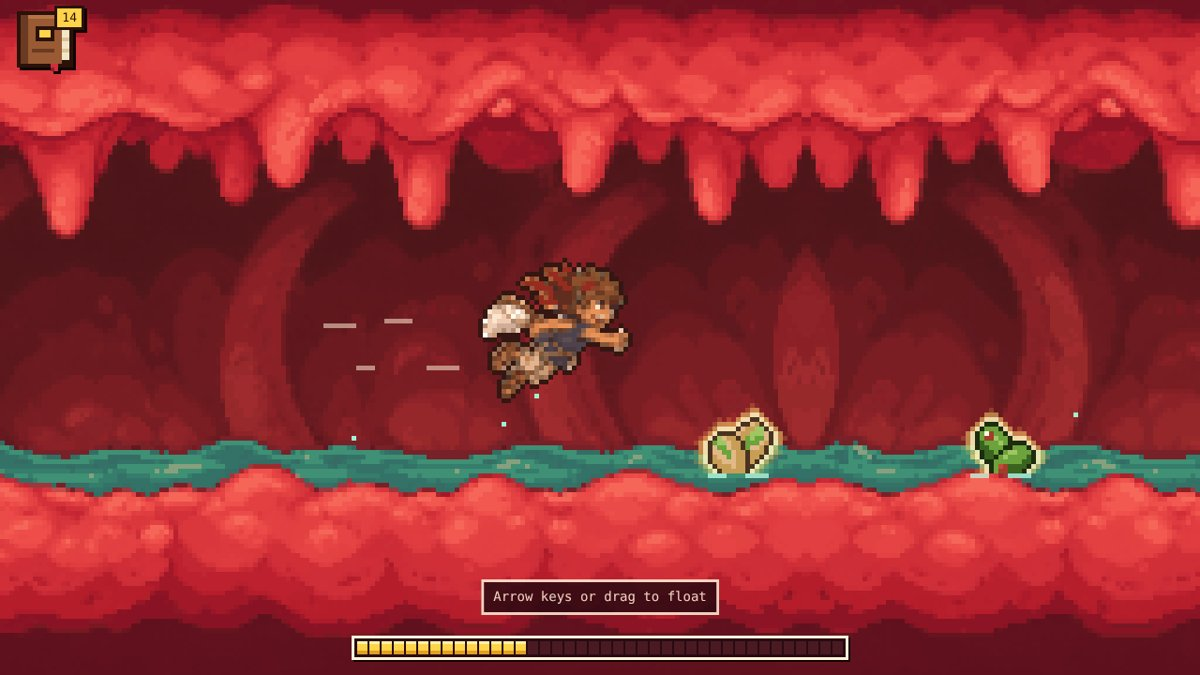
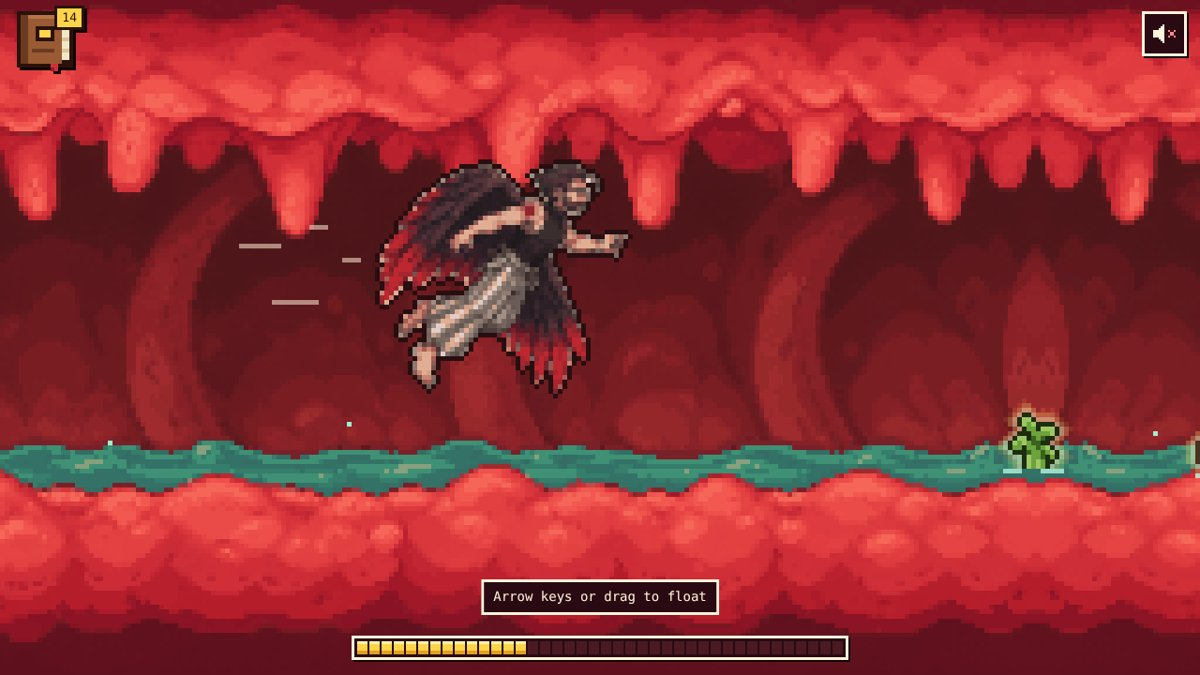
New winged hero based on Jawad's drawing: glides, flaps, drifts, rolls, faces his direction
Claude-Session: https://claude.ai/code/session_01TT9nh2LHULSaAs9YgLgihV

diff --git a/index.html b/index.html
@@ -81,14 +81,14 @@ canvas{touch-action:none;cursor:grab}
 <div class="help" id="help">Arrow keys or drag to float</div>
 <button type="button" class="sound" id="soundBtn" aria-pressed="false" aria-label="Sound"><svg viewBox="0 0 16 16" width="32" height="32" shape-rendering="crispEdges" aria-hidden="true"><rect x="2" y="6" width="3" height="4" fill="#fff3dc"/><rect x="5" y="5" width="1" height="6" fill="#fff3dc"/><rect x="6" y="4" width="1" height="8" fill="#fff3dc"/><rect x="7" y="3" width="1" height="10" fill="#fff3dc"/><g class="w" fill="#8ff0c8"><rect x="10" y="6" width="1" height="4"/><rect x="12" y="4" width="1" height="8"/><rect x="11" y="5" width="1" height="1"/><rect x="11" y="10" width="1" height="1"/></g><g class="x" fill="#ff8a8a"><rect x="10" y="6" width="1" height="1"/><rect x="11" y="7" width="1" height="1"/><rect x="12" y="8" width="1" height="1"/><rect x="13" y="9" width="1" height="1"/><rect x="13" y="6" width="1" height="1"/><rect x="12" y="7" width="1" height="1"/><rect x="11" y="8" width="1" height="1"/><rect x="10" y="9" width="1" height="1"/></g></svg></button>
 <div class="tag" id="tag"></div>
-<canvas id="c" role="img" aria-label="A boy with a net floats through a tunnel inside the gut while his safe foods drift by on the stream, glowing gold. Use the arrow keys or drag to float him around."></canvas>
+<canvas id="c" role="img" aria-label="A winged man floats through a tunnel inside the gut while his safe foods drift by on the stream, glowing gold. Use the arrow keys or drag to float him around."></canvas>
 <script>
 {
 const cv = document.getElementById('c'), g = cv.getContext('2d');
 const still = matchMedia('(prefers-reduced-motion: reduce)').matches;
-const BG_H = 145, TILE_W = 514, FRAME_W = 48, FRAME_H = 49, ANCHOR_X = 18, ANCHOR_Y = 29;
+const BG_H = 145, TILE_W = 514, FRAME_W = 65, FRAME_H = 70, ANCHOR_X = 32, ANCHOR_Y = 27;
 const bg = new Image(), kid = new Image();
-bg.src = 'assets/px-bg.png'; kid.src = 'assets/px-kid.png';
+bg.src = 'assets/px-bg.png'; kid.src = 'assets/px-hero.png';
 
 /* foods logged in successfully */
 const FOODS = [
@@ -162,7 +162,7 @@ document.getElementById('closeBook').addEventListener('click', () => toggle(fals
 wrap.addEventListener('click', e => { if (e.target === wrap) toggle(false); });
 addEventListener('keydown', e => { if (e.key === 'Escape') toggle(false); });
 /* floating him yourself: keys or drag; he drifts on his own when left alone */
-let px = null, py = null, goal = null, lastInput = -99;
+let px = null, py = null, goal = null, lastInput = -99, face = 1, pose = 0, poseUntil = 0, nextPoseAt = 8;
 const keys = new Set();
 const toNative = e => { const r = cv.getBoundingClientRect(); return {x: (e.clientX - r.left) / k, y: (e.clientY - r.top) / k}; };
 cv.addEventListener('pointerdown', e => { toggle(false); cv.setPointerCapture(e.pointerId); goal = toNative(e); });
@@ -338,7 +338,7 @@ function draw(now) {
   }
 
   /* the boy drifts on his own */
-  const ax = W * .4 + (still ? 0 : Math.sin(t * .23) * W * .08), ay = top + 66 + (still ? 0 : Math.sin(t * .41) * 7);
+  const ax = W * .4 + (still ? 0 : Math.sin(t * .23) * W * .08), ay = top + 50 + (still ? 0 : Math.sin(t * .41) * 6);
   if (px === null) { px = ax; py = ay; }
   let vx = 0, vy = 0;
   if (keys.has('arrowleft') || keys.has('a')) vx -= 1;
@@ -348,18 +348,33 @@ function draw(now) {
   if (vx || vy) { const m = Math.hypot(vx, vy); px += vx / m * 60 * dt; py += vy / m * 60 * dt; lastInput = t; }
   else if (goal) { const gx = goal.x - 6, gy = goal.y, d = Math.hypot(gx - px, gy - py); if (d > 1) { const st = Math.min(d, 70 * dt); px += (gx - px) / d * st; py += (gy - py) / d * st; } lastInput = t; }
   else if (t - lastInput > 3) { const e = Math.min(1, dt * .8); px += (ax - px) * e; py += (ay - py) * e; }
-  px = Math.max(20, Math.min(W - 32, px)); py = Math.max(top + 34, Math.min(top + 86, py));
+  px = Math.max(26, Math.min(W - 34, px)); py = Math.max(top + 28, Math.min(top + 62, py));
+  const moving = !!(vx || vy || (goal && Math.hypot(goal.x - 6 - px, goal.y - py) > 2));
+  if (vx) face = vx > 0 ? 1 : -1;
+  else if (goal && Math.abs(goal.x - 6 - px) > 3) face = goal.x - 6 > px ? 1 : -1;
+  else if (!moving && t - lastInput > 3) { const dx = ax - px; if (Math.abs(dx) > 2) face = dx > 0 ? 1 : -1; else face = 1; }
   const kx = Math.round(px), ky = Math.round(py) + (still ? 0 : Math.round(Math.sin(t * 2.2) * 1.5));
   if (!still) {
     g.fillStyle = 'rgba(255,235,210,.55)';
     for (const l of lines) {
       l.t += dt * 1.2;
-      if (l.t > 1) { l.t = 0; l.y = ky - 10 + Math.floor(Math.random() * 20); l.len = 4 + Math.floor(Math.random() * 7); }
-      if (l.len) g.fillRect(kx - 22 - Math.floor(l.t * 30), l.y, l.len, 1);
+      if (l.t > 1) { l.t = 0; l.y = ky - 6 + Math.floor(Math.random() * 26); l.len = 4 + Math.floor(Math.random() * 7); }
+      if (l.len && face > 0) g.fillRect(kx - 34 - Math.floor(l.t * 30), l.y, l.len, 1);
+      if (l.len && face < 0) g.fillRect(kx + 30 + Math.floor(l.t * 30), l.y, l.len, 1);
     }
   }
-  const frame = still ? 0 : Math.floor(t * 4.5) % 2;
-  if (kid.naturalWidth) g.drawImage(kid, frame * FRAME_W, 0, FRAME_W, FRAME_H, kx - ANCHOR_X, ky - ANCHOR_Y, FRAME_W, FRAME_H);
+  let frame = 0;
+  if (!still) {
+    if (moving) { frame = Math.floor(t * 3) % 2; poseUntil = 0; nextPoseAt = t + 6; }
+    else {
+      if (t > nextPoseAt) { pose = Math.random() < .55 ? 2 : 3; poseUntil = t + 2.4; nextPoseAt = t + 9 + Math.random() * 7; }
+      frame = t < poseUntil ? pose : ((t * .8) % 1 < .28 ? 1 : 0);
+    }
+  }
+  if (kid.naturalWidth) {
+    if (face < 0) { g.save(); g.translate(kx, 0); g.scale(-1, 1); g.drawImage(kid, frame * FRAME_W, 0, FRAME_W, FRAME_H, -ANCHOR_X, ky - ANCHOR_Y, FRAME_W, FRAME_H); g.restore(); }
+    else g.drawImage(kid, frame * FRAME_W, 0, FRAME_W, FRAME_H, kx - ANCHOR_X, ky - ANCHOR_Y, FRAME_W, FRAME_H);
+  }
   if (!still) requestAnimationFrame(draw);
 }
 if (still) { let n = 0; const once = () => { if (++n === 2) requestAnimationFrame(draw); }; bg.addEventListener('load', once); kid.addEventListener('load', once); }
